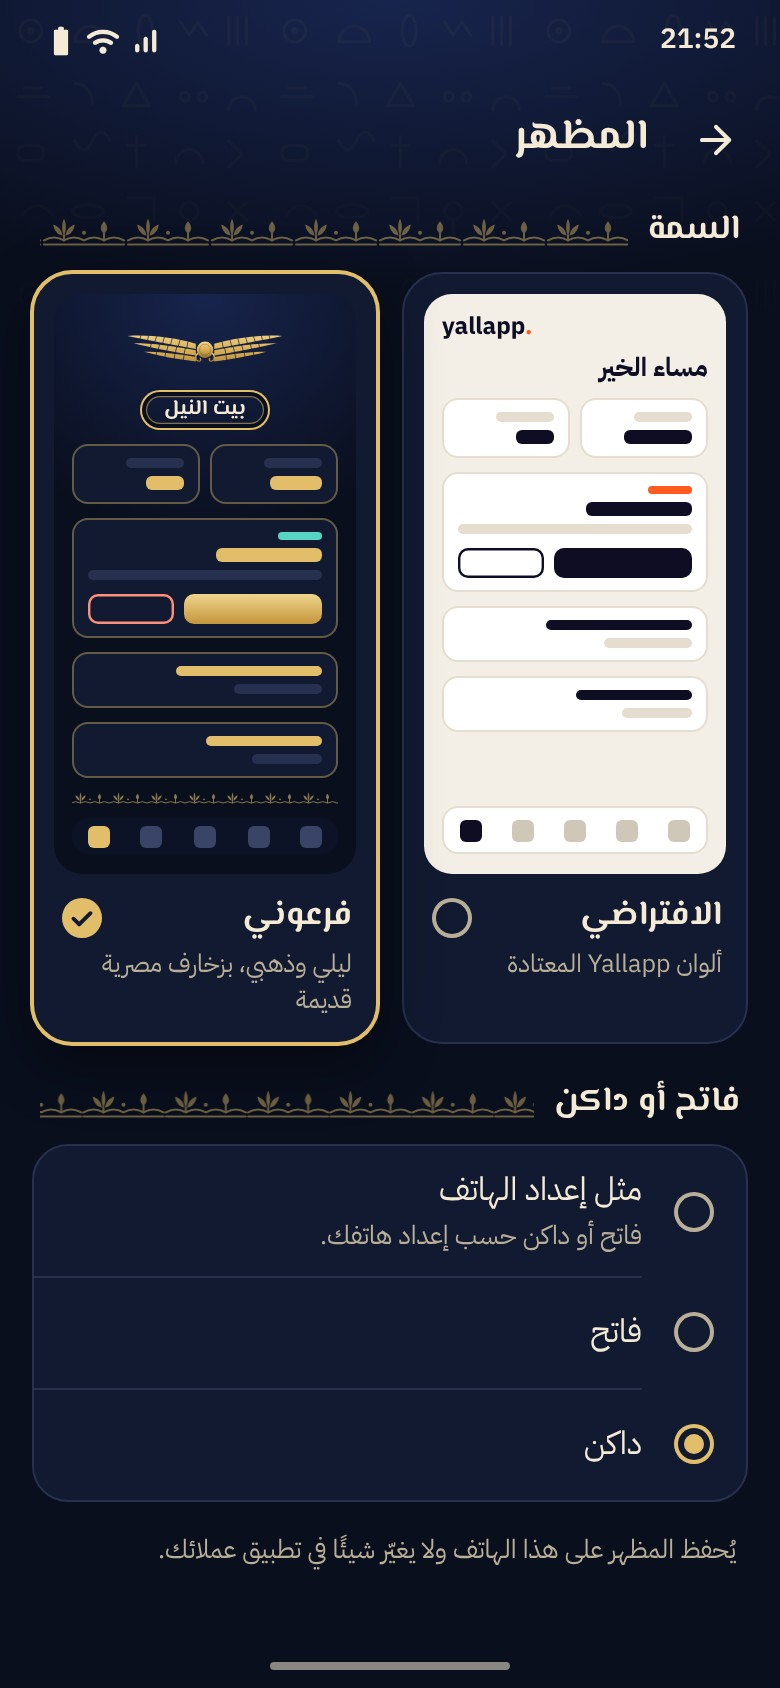
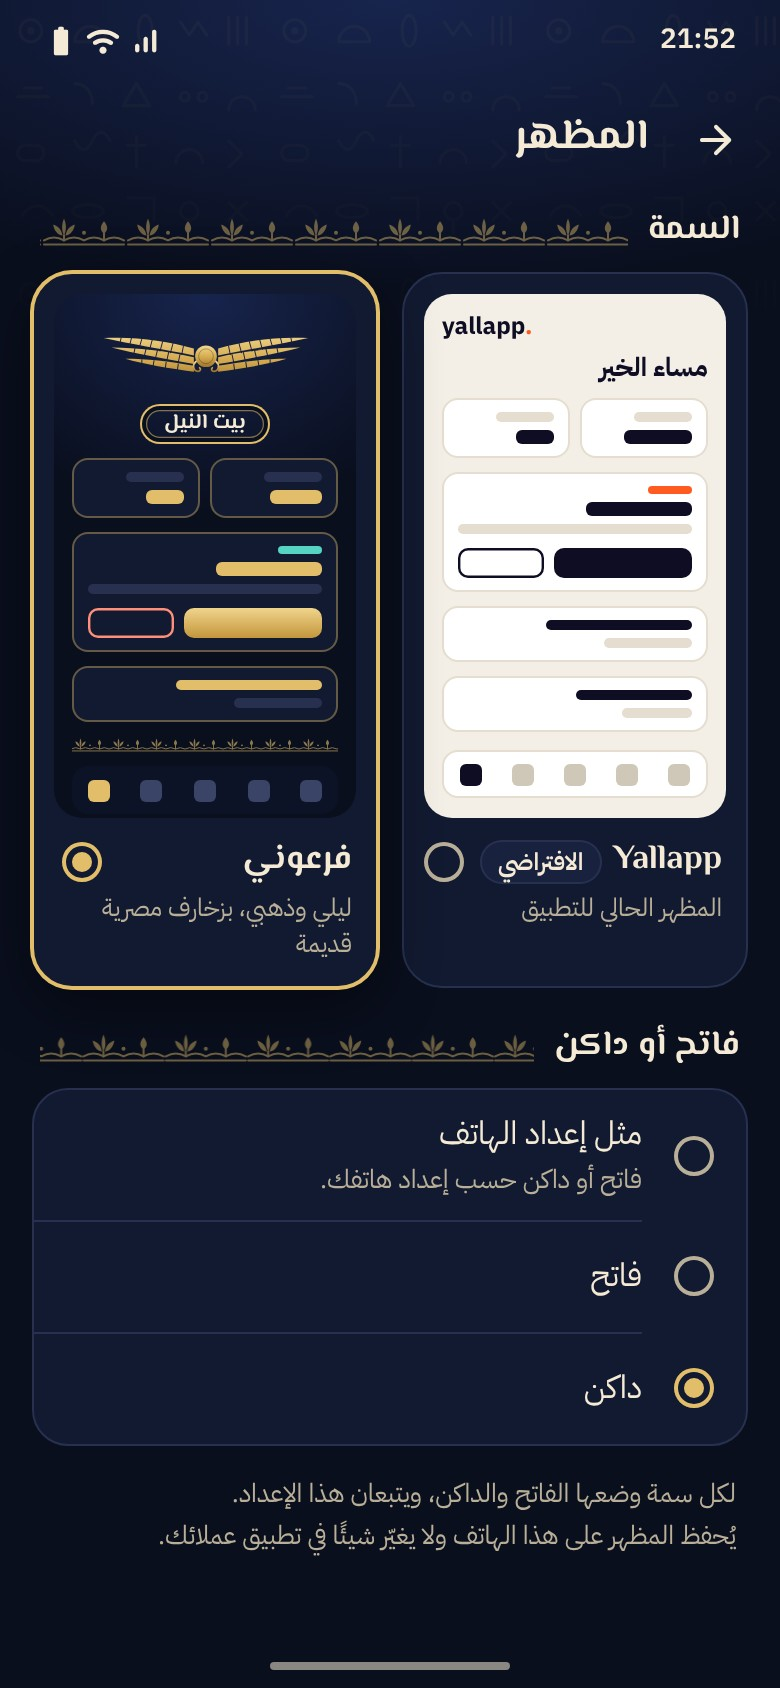
Design pilot: the theme screen marks the current look as the default
The current look shows first, named Yallapp with a "default" badge, and
Pharaonic beside it. A line says each theme has its own light and dark,
both following the light/dark setting. README notes how themes work.

Claude-Session: https://claude.ai/code/session_01MSAbbHjPLVdK4KhggTQ4Tg

Changed region(s): [[0.0308, 0.1848, 0.9538, 0.9242]]

diff --git a/design-refs/business-pharaonic/src/theme-picker.html b/design-refs/business-pharaonic/src/theme-picker.html
@@ -10,18 +10,22 @@
     background: radial-gradient(130% 100% at 50% 0%, var(--bg-glow) 0%, transparent 72%); }
   .topglow .glyphs { -webkit-mask: url(../svg/glyph-texture.svg) repeat, linear-gradient(#000 10%, transparent 100%);
     -webkit-mask-size: 132px 132px, 100% 100%; -webkit-mask-composite: source-in; }
-  .themes { display: grid; grid-template-columns: 1fr 1fr; gap: 12px; padding: 0 16px; position: relative; }
+  .themes { display: grid; grid-template-columns: minmax(0,1fr) minmax(0,1fr); gap: 12px; padding: 0 16px; position: relative; }
   .opt { padding: 10px 10px 12px; border-radius: 20px; }
   .opt.on { border-color: var(--gold); box-shadow: 0 0 0 1px var(--gold), var(--shadow); }
   .opt .head { display: flex; align-items: center; gap: 6px; margin-top: 10px; padding: 0 2px; }
-  .opt .head b { font: 700 17px/1.25 "El Messiri", serif; flex: 1; }
+  .opt .head b { font: 700 17px/1.25 "El Messiri", serif; flex: 1; white-space: nowrap; }
   .opt .head .ms { color: var(--ink2); }
   .opt.on .head .ms { color: var(--gold); }
+  .defchip { display: inline-flex; align-items: center; height: 22px; padding: 0 9px; margin: 0; border-radius: 11px; flex: none;
+    font: 600 12px/1 "IBM Plex Sans Arabic"; color: var(--ink); background: var(--surface2); box-shadow: inset 0 0 0 1px var(--line); }
+  .defchip.none { visibility: hidden; }
   .opt p { font-size: 12.5px; color: var(--ink2); line-height: 1.45; padding: 2px 2px 0; }
 
   /* Miniature phones, drawn with each theme's own colours. */
-  .mini { height: 290px; border-radius: 14px; overflow: hidden; position: relative; padding: 10px 9px; display: flex; flex-direction: column; gap: 7px; }
+  .mini { height: 262px; border-radius: 14px; overflow: hidden; position: relative; padding: 10px 9px; display: flex; flex-direction: column; gap: 7px; }
   .mini .bar { height: 5px; border-radius: 3px; }
+  .mini > * { flex: none; }
   .mini .tile { border-radius: 8px; padding: 6px 7px; display: flex; flex-direction: column; gap: 4px; }
   .mini .grid { display: grid; grid-template-columns: 1fr 1fr; gap: 5px; }
   .mini .btns { display: grid; grid-template-columns: 1.6fr 1fr; gap: 5px; margin-top: 3px; }
@@ -89,8 +93,8 @@
           <div class="tile"><div class="bar k" style="width:50%;height:5px"></div><div class="bar" style="width:30%"></div></div>
           <div class="navm"><i></i><i></i><i></i><i></i><i></i></div>
         </div>
-        <div class="head"><b>الافتراضي</b><span class="ms">radio_button_unchecked</span></div>
-        <p>ألوان <bdi>Yallapp</bdi> المعتادة</p>
+        <div class="head"><b><bdi>Yallapp</bdi></b><span class="defchip">الافتراضي</span><span class="ms">radio_button_unchecked</span></div>
+        <p>المظهر الحالي للتطبيق</p>
       </div>
       <div class="card opt on">
         <div class="mini pharaonic">
@@ -99,11 +103,10 @@
           <div class="grid"><div class="tile"><div class="bar" style="width:60%"></div><div class="bar k"></div></div><div class="tile"><div class="bar" style="width:60%"></div><div class="bar k" style="width:40%"></div></div></div>
           <div class="tile"><div class="dot"></div><div class="bar k" style="width:45%"></div><div class="bar"></div><div class="btns"><i></i><i></i></div></div>
           <div class="tile"><div class="bar k" style="width:62%;height:5px"></div><div class="bar" style="width:38%"></div></div>
-          <div class="tile"><div class="bar k" style="width:50%;height:5px"></div><div class="bar" style="width:30%"></div></div>
           <div class="lotusm"></div>
           <div class="navm"><i></i><i></i><i></i><i></i><i></i></div>
         </div>
-        <div class="head"><b>فرعوني</b><span class="ms fill">check_circle</span></div>
+        <div class="head"><b>فرعوني</b><span class="ms fill">radio_button_checked</span></div>
         <p>ليلي وذهبي، بزخارف مصرية قديمة</p>
       </div>
     </div>
@@ -114,7 +117,7 @@
       <div class="radio"><span class="ms">radio_button_unchecked</span><span class="t">فاتح</span></div>
       <div class="radio on"><span class="ms fill">radio_button_checked</span><span class="t">داكن</span></div>
     </div>
-    <p class="foot">يُحفظ المظهر على هذا الهاتف ولا يغيّر شيئًا في تطبيق عملائك.</p>
+    <p class="foot">لكل سمة وضعها الفاتح والداكن، ويتبعان هذا الإعداد.<br>يُحفظ المظهر على هذا الهاتف ولا يغيّر شيئًا في تطبيق عملائك.</p>
   </div>
   <div class="homebar clear"><i></i></div>
 </div>

diff --git a/design-refs/business-pharaonic/README.md b/design-refs/business-pharaonic/README.md
@@ -5,6 +5,12 @@ faience turquoise for "now" and action links, warm papyrus for light mode. The
 owner picks it in Settings › Appearance; the current look stays the default.
 This folder is design only: no app code changed.
 
+How themes work (confirmed by the owner): the current Business look stays
+exactly as it is, stays the default, and keeps its own light and dark. Pharaonic
+is an extra theme with its own light and dark. The existing light/dark setting
+applies to whichever theme is chosen. The theme screen shows the default first
+(on the start side), marked "الافتراضي", with Pharaonic beside it.
+
 ## Screens (`screens/`, 390 × 844 at 2x, JPEG 90)
 
 | File | Screen |
@@ -80,11 +86,13 @@ on surface2 5.20:1; dark ink2 on surface2 7.20:1; button text 10.3:1 (dark) and
 | Key (proposed) | ar | en |
 |---|---|---|
 | `themeTitle` | السمة | Theme |
-| `themeDefault` | الافتراضي | Default |
-| `themeDefaultHelp` | ألوان Yallapp المعتادة | Yallapp's usual colours |
+| (name) | Yallapp | Yallapp |
+| `themeDefaultBadge` | الافتراضي | Default |
+| `themeDefaultHelp` | المظهر الحالي للتطبيق | The app's current look |
 | `themePharaonic` | فرعوني | Pharaonic |
 | `themePharaonicHelp` | ليلي وذهبي، بزخارف مصرية قديمة | Night and gold, with ancient Egyptian ornaments |
 | `themeModeTitle` | فاتح أو داكن | Light or dark |
+| `themeModeHelp` | لكل سمة وضعها الفاتح والداكن، ويتبعان هذا الإعداد. | Each theme has its own light and dark; both follow this setting. |
 
 (Turkish to be written with the others.)
 
